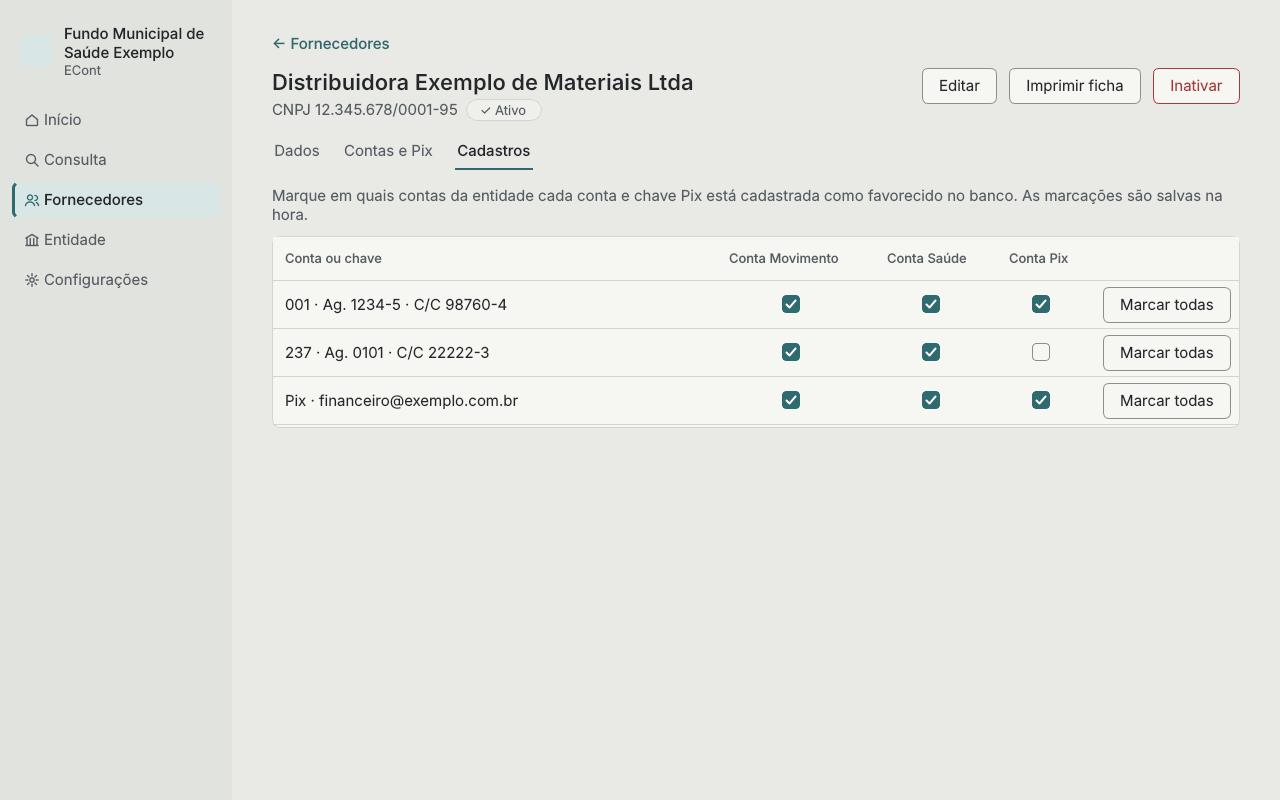
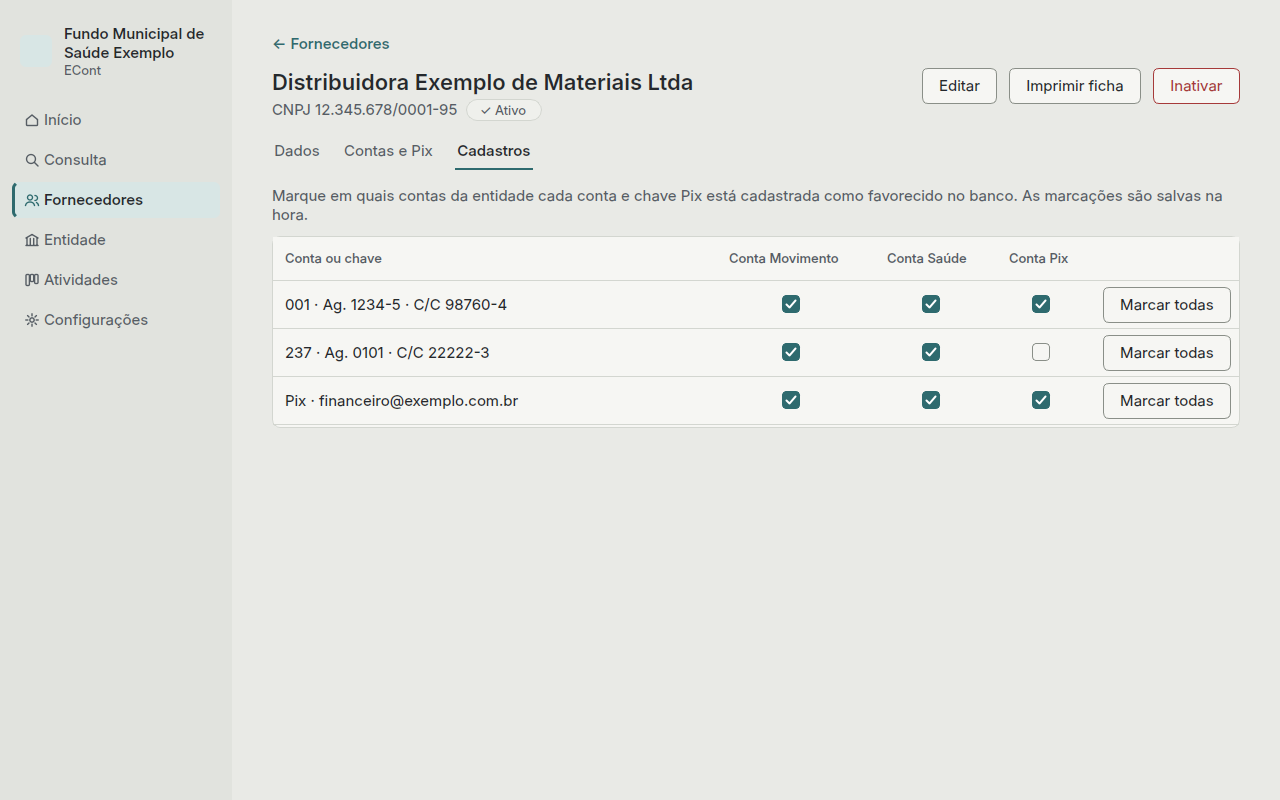
Guia das Atividades, capturas e README (#58)

diff --git a/scripts/capturas.py b/scripts/capturas.py
@@ -11,12 +11,18 @@ from __future__ import annotations
 import os
 import sys
 import tempfile
-from datetime import datetime, timedelta
+from datetime import date, datetime, timedelta
 from pathlib import Path
 
 from PySide6.QtCore import QCoreApplication
 
 from econt.app import criar_aplicacao
+from econt.dados.atividades import (
+    DadosAtividade,
+    arquivar_atividade,
+    criar_atividade,
+    mover_atividade,
+)
 from econt.dados.banco import BaseDeDados
 from econt.dados.contas import DadosConta, cadastrar_conta, registrar_pedido
 from econt.dados.entidade import Entidade, salvar_entidade
@@ -91,8 +97,31 @@ def dados_de_exemplo(caminho: Path) -> BaseDeDados:
         c, DadosFornecedor("pj", cnpj("678901230001"), "Gráfica Hipotética Ltda")
     )
     salvar_chave_pix(c, novo, "cnpj", cnpj("678901230001"))
+    atividades_de_exemplo(c, ids[0], ids[1])
     base.salvar()
     return base
+
+
+def atividades_de_exemplo(c, distribuidora: int, laboratorio: int) -> None:
+    """Um quadro com atividades inventadas, com prazos em volta de hoje."""
+    hoje = date.today()
+    a_fazer, em_andamento, concluido = 1, 2, 3
+    exemplos = [
+        (a_fazer, "Conferir notas fiscais de outubro", -2, distribuidora, ""),
+        (a_fazer, "Pagar conta de energia da sede", 0, None, "Vence às 16h no banco."),
+        (a_fazer, "Atualizar certidões dos fornecedores", 6, None, ""),
+        (a_fazer, "Separar comprovantes para a prestação de contas", None, None, ""),
+        (em_andamento, "Pedir aumento do limite Pix da Conta Pix", 3, None, ""),
+        (em_andamento, "Cadastrar favorecido do laboratório", 1, laboratorio, ""),
+        (concluido, "Fechar o mês de setembro", -10, None, ""),
+        (concluido, "Renovar contrato de limpeza", -4, None, ""),
+    ]
+    for coluna, titulo, dias, fornecedor, descricao in exemplos:
+        prazo = hoje + timedelta(days=dias) if dias is not None else None
+        criar_atividade(c, coluna, DadosAtividade(titulo, descricao, prazo, fornecedor))
+    antiga = criar_atividade(c, a_fazer, DadosAtividade("Reunião com o contador"))
+    mover_atividade(c, antiga, concluido, 1)
+    arquivar_atividade(c, antiga)
 
 
 def capturar(janela, nome: str) -> None:
@@ -144,6 +173,15 @@ def main() -> int:
         entidade = area.indice["entidade"]
         entidade.abas.setCurrentIndex(1)
         capturar(janela, "entidade-contas")
+
+        area.ir_para("atividades")
+        atividades = area.indice["atividades"]
+        atividades.focar(atividades.colunas[0].cartoes[0].id)
+        capturar(janela, "atividades")
+        dialogo = atividades.criar_dialogo_atividade(0, atividades.colunas[1].cartoes[1].id)
+        dialogo.show()
+        capturar(dialogo, "atividade-editar")
+        dialogo.close()
 
         area.ir_para("configuracoes")
         capturar(janela, "configuracoes")

diff --git a/tests/test_documentacao.py b/tests/test_documentacao.py
@@ -16,6 +16,7 @@ GUIAS = [
     "consulta.md",
     "fornecedores.md",
     "entidade.md",
+    "atividades.md",
     "configuracoes.md",
     "perguntas-frequentes.md",
 ]

diff --git a/docs/atividades.md b/docs/atividades.md
@@ -1,0 +1,86 @@
+# Atividades
+
+O quadro das atividades da entidade, do que falta fazer ao que já foi concluído. Serve para
+acompanhar o trabalho do setor financeiro no próprio ECont, sem outra ferramenta ao lado.
+
+![Quadro de atividades](imagens/atividades.png)
+
+## O quadro
+
+Há um único quadro, o da entidade. Ele começa com três colunas: **A fazer**,
+**Em andamento** e **Concluído**. Cada coluna mostra o nome e quantas atividades tem.
+
+Cada cartão mostra o título, o prazo (se houver) e o fornecedor (se houver):
+
+- **Atrasada:** o prazo já passou e a atividade não está na coluna de conclusão. O cartão
+  fica com a borda vermelha e a etiqueta "Atrasada".
+- **Vence hoje:** borda amarela e a etiqueta "Vence hoje".
+- Nos outros casos, o prazo aparece como texto normal.
+
+Atividades atrasadas e que vencem hoje também aparecem no [Início](inicio.md).
+
+## Criar e editar
+
+**+ Nova atividade**, no pé de cada coluna, cria uma atividade no fim daquela coluna.
+
+![Editar atividade](imagens/atividade-editar.png)
+
+| Campo | Como preencher |
+|---|---|
+| Título | Obrigatório, até 120 caracteres |
+| Descrição | Opcional, com quantas linhas precisar |
+| Prazo | Opcional. Só a data, assim: 25/11/2026 |
+| Fornecedor | Opcional. Digite parte do nome para filtrar a lista |
+
+Para editar, dê um duplo clique no cartão ou selecione o cartão e tecle **Enter**. O diálogo
+também mostra em que coluna a atividade está e quando foi criada, alterada e movida.
+
+## Mover
+
+- **Arrastando:** segure o cartão e solte em qualquer posição, na mesma coluna ou em outra.
+  Uma linha mostra onde ele vai cair.
+- **Pelo teclado:** com o cartão selecionado, **Ctrl+←** e **Ctrl+→** levam para o fim da
+  coluna vizinha; **Ctrl+↑** e **Ctrl+↓** sobem e descem o cartão na coluna.
+- **Pelo menu:** clique com o botão direito no cartão (ou tecle **Menu**).
+
+O ECont grava cada troca de coluna com a data e os nomes das colunas.
+
+## Buscar
+
+O campo de busca, no topo, filtra os cartões por título, descrição e nome do fornecedor
+enquanto você digita, sem diferenciar maiúsculas e acentos. Com a busca ativa, cada coluna
+mostra quantas atividades estão à mostra ("1 de 4"), e dá para arrastar normalmente: o cartão
+cai no lugar certo mesmo com outros cartões escondidos.
+
+## Arquivar, restaurar e excluir
+
+- **Arquivar** tira a atividade do quadro sem apagar. Está no menu do cartão e no diálogo da
+  atividade, e pede confirmação.
+- **Mostrar arquivadas** lista as atividades arquivadas:
+  - **Restaurar** devolve a atividade para o fim da coluna de onde ela saiu.
+  - **Excluir definitivamente** apaga a atividade e o histórico dela. Pede confirmação e não
+    dá para desfazer. Só atividades arquivadas podem ser excluídas.
+
+## Colunas
+
+**Nova coluna** cria uma coluna à direita das outras. O botão **⋯** no cabeçalho de cada
+coluna tem **Editar coluna**, **Mover para a esquerda**, **Mover para a direita** e
+**Excluir coluna**.
+
+- O nome é obrigatório e não pode repetir outro (sem diferenciar maiúsculas e acentos).
+- Só dá para excluir uma coluna vazia, sem atividades no quadro nem arquivadas. Mova ou
+  exclua as atividades antes. O quadro sempre fica com pelo menos uma coluna.
+- Uma coluna pode ser a **coluna de conclusão** (no começo, **Concluído**). Atividade nela
+  conta como concluída e nunca aparece como atrasada. Só uma coluna pode ser de conclusão:
+  marcar outra desmarca a anterior.
+
+## Fornecedor inativo ou excluído
+
+Uma atividade ligada a um fornecedor inativo continua mostrando o nome dele, com
+"(inativo)". Se o fornecedor for excluído, a atividade continua no quadro, só sem o
+fornecedor.
+
+## Backup
+
+As atividades ficam no mesmo arquivo protegido dos outros dados. Entram no backup, na
+exportação e na restauração como todo o resto.

diff --git a/README.md b/README.md
@@ -2,8 +2,9 @@
 
 [![Testes](https://github.com/alisonvmarques/econt/actions/workflows/testes.yml/badge.svg)](https://github.com/alisonvmarques/econt/actions/workflows/testes.yml)
 
-Conferência de contas: sistema desktop e offline para conferir as contas dos fornecedores e
-em quais contas da entidade estão cadastradas antes de pagar.
+Sistema desktop e offline que cuida das contas e das atividades da entidade: confere as
+contas dos fornecedores e em quais contas da entidade estão cadastradas antes de pagar, e
+acompanha num quadro o que o setor financeiro tem a fazer.
 
 > Versão atual: 1.0 · Versão estável.
 
@@ -26,6 +27,8 @@ ECont registra essa situação e mostra, antes de pagar, de quais contas o pagam
 - Imprime os dados para pagamento em meia folha A4, para anexar ao processo.
 - Acompanha os limites diários de Pix e de transação de cada conta da entidade, com a regra de
   24 horas para alterações.
+- Organiza as atividades da entidade num quadro (a fazer, em andamento, concluído), com
+  prazos, fornecedor ligado e aviso no Início do que está atrasado ou vence hoje.
 - Funciona totalmente offline, com os dados num arquivo criptografado
   ([como](docs/criptografia.md)), backup automático e exportação para pendrive.
 
@@ -51,7 +54,8 @@ O [guia de uso](docs/index.md) explica cada área, com capturas de tela:
 
 - [Primeiros passos](docs/primeiros-passos.md): senha, chave de recuperação e entidade.
 - [Início](docs/inicio.md), [Consulta](docs/consulta.md), [Fornecedores](docs/fornecedores.md),
-  [Entidade](docs/entidade.md) e [Configurações](docs/configuracoes.md).
+  [Entidade](docs/entidade.md), [Atividades](docs/atividades.md) e
+  [Configurações](docs/configuracoes.md).
 - [Perguntas frequentes](docs/perguntas-frequentes.md).
 
 | Início | Marcações do fornecedor |

diff --git a/docs/index.md b/docs/index.md
@@ -3,6 +3,8 @@
 O ECont guarda as contas bancárias e as chaves Pix de cada fornecedor e registra em quais
 contas da entidade cada uma está cadastrada como favorecido no banco. Na hora de pagar, a
 Consulta mostra, para cada conta e chave, se o pagamento pode sair de cada conta da entidade.
+O quadro de [Atividades](atividades.md) acompanha o trabalho do setor, do que falta fazer ao
+que já foi concluído.
 
 Tudo fica no seu computador, num arquivo protegido por senha. O ECont não usa internet.
 
@@ -20,6 +22,7 @@ Tudo fica no seu computador, num arquivo protegido por senha. O ECont não usa i
 | [Consulta](consulta.md) | Conferir um fornecedor antes de pagar e imprimir os dados | Ctrl+2 |
 | [Fornecedores](fornecedores.md) | Cadastrar fornecedores, contas, chaves Pix e marcações | Ctrl+3 |
 | [Entidade](entidade.md) | Dados de quem paga, contas e limites | Ctrl+4 |
-| [Configurações](configuracoes.md) | Impressão, backup e lista de bancos | Ctrl+5 |
+| [Atividades](atividades.md) | Quadro das atividades da entidade, com prazos | Ctrl+5 |
+| [Configurações](configuracoes.md) | Impressão, backup e lista de bancos | Ctrl+6 |
 
 Dúvidas comuns estão nas [perguntas frequentes](perguntas-frequentes.md).

diff --git a/docs/qualidade.md b/docs/qualidade.md
@@ -46,7 +46,7 @@ não pede confirmação, porque não perde nada.
 Fluxos percorridos sem o mouse, em `tests/test_teclado.py`:
 
 - Entrar com a senha: Enter no campo da senha.
-- Trocar de área: Ctrl+1 a Ctrl+5, ou Tab até a barra e as setas.
+- Trocar de área: Ctrl+1 a Ctrl+6, ou Tab até a barra e as setas.
 - Consulta: digitar, Enter abre o primeiro fornecedor, o foco vai para Imprimir meia folha,
   Esc limpa a busca e a seta para baixo leva à lista.
 - Fornecedores: Enter na lista abre a ficha; no formulário, Enter em qualquer campo salva.
@@ -54,6 +54,8 @@ Fluxos percorridos sem o mouse, em `tests/test_teclado.py`:
 - Pedido de alteração de limite: Enter no novo valor registra o pedido.
 - Marcações: Tab chega a cada caixa e Espaço marca ou desmarca.
 - Abas da ficha e das Configurações: Ctrl+Tab passa para a próxima.
+- Atividades (incluídas depois da 1.0, issue #58): Nova atividade com Espaço, Enter salva o
+  diálogo, Enter no cartão abre, Ctrl+setas movem entre colunas e dentro da coluna.
 
 Encontrado e corrigido nesta revisão: nos formulários que ficam na própria página (novo
 fornecedor, dados da entidade e pedido de limite), Enter não salvava; só os diálogos

diff --git a/docs/inicio.md b/docs/inicio.md
@@ -20,3 +20,9 @@ Aparece só quando há algo a resolver:
   no banco e marcar na aba **Cadastros** do fornecedor.
 - **Limite em liberação:** um pedido de alteração de limite que ainda não passou das 24 horas.
   Mostra o novo valor e quando ele passa a valer.
+- **Atividade atrasada:** quantas atividades do quadro de [Atividades](atividades.md) estão
+  com o prazo vencido, fora da coluna de conclusão.
+- **Atividade que vence hoje:** quantas têm o prazo para hoje.
+
+Os avisos das atividades somem quando a atividade vai para a coluna de conclusão, é
+arquivada ou tem o prazo mudado.

diff --git a/docs/primeiros-passos.md b/docs/primeiros-passos.md
@@ -34,7 +34,8 @@ A entidade é quem paga: informe a razão social e o CNPJ. O logo é opcional (P
 
 ## Usar só o teclado
 
-- **Ctrl+1** a **Ctrl+5** trocam de área.
+- **Ctrl+1** a **Ctrl+6** trocam de área.
+- No quadro de [Atividades](atividades.md), **Ctrl+setas** movem o cartão selecionado.
 - **Enter** salva formulários e diálogos; **Esc** cancela os diálogos.
 - **Tab** passa de um campo para o outro; **Espaço** marca e desmarca caixas.
 - **Ctrl+Tab** passa para a próxima aba.
